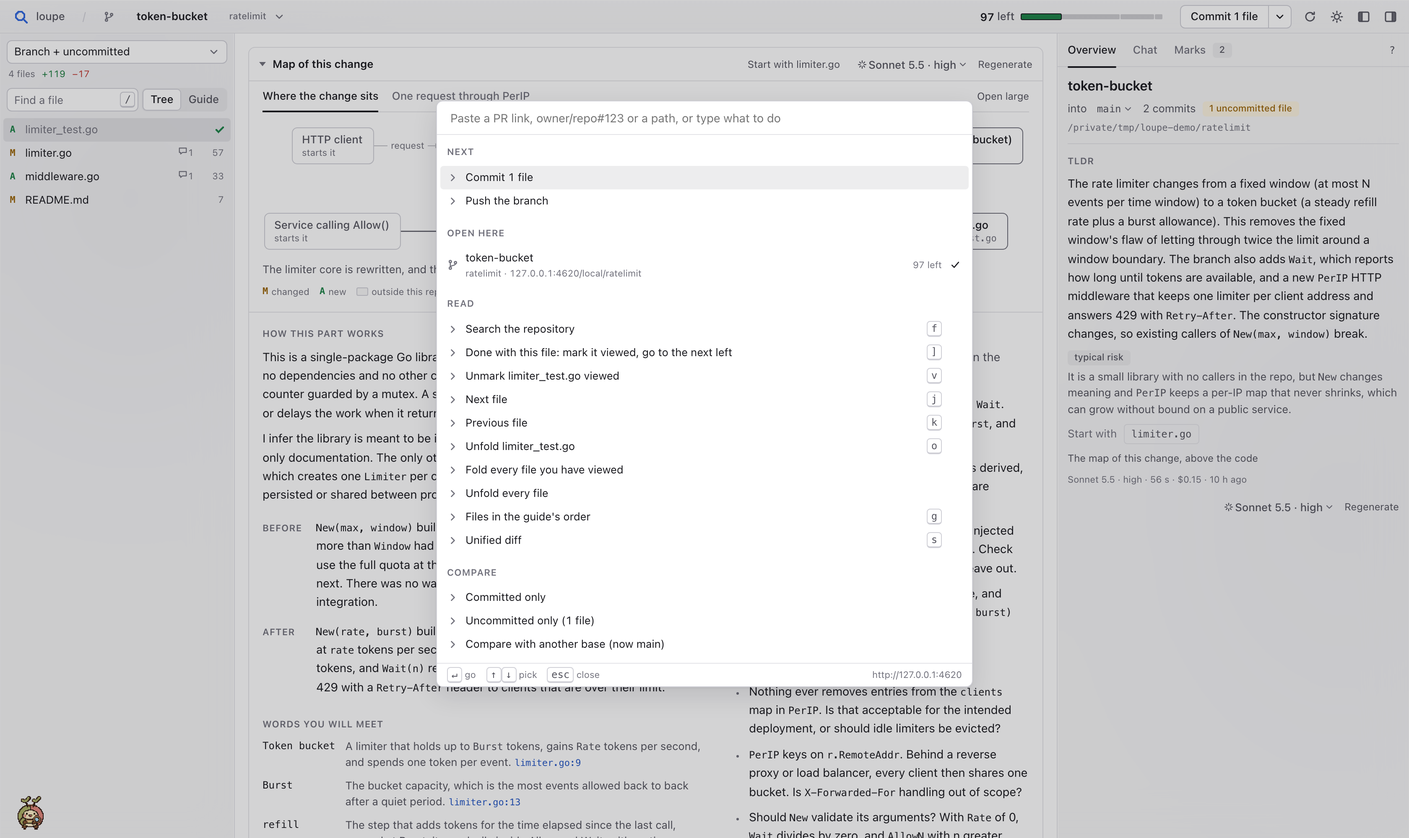
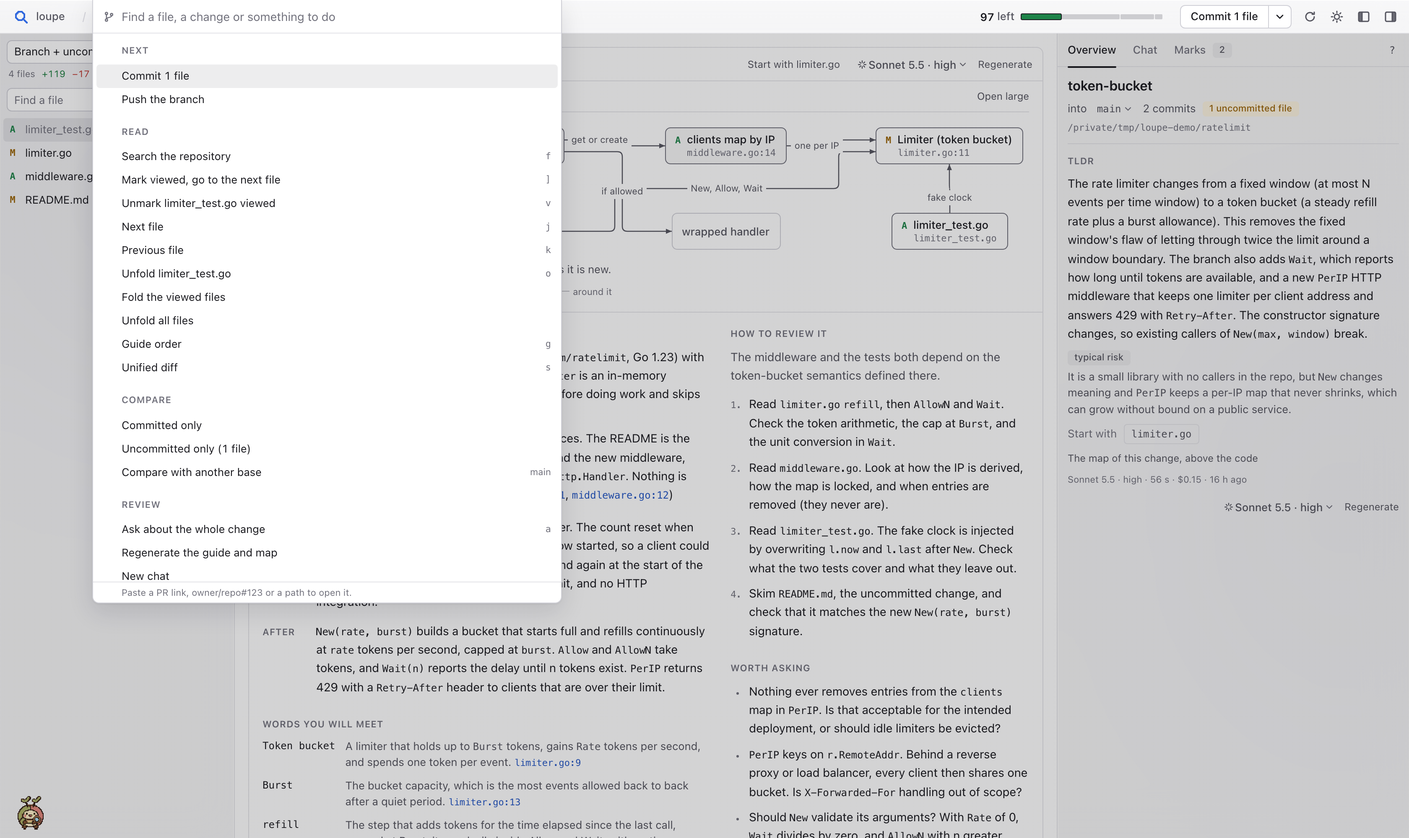
A palette that opens from the title, and restarts only when the code changed
- ⌘K, or a click on the title, opens the palette the way an address bar opens: its field on
  the top bar's own row, where the title was, and its rows on the file list's grid, with
  the same status letters, counts and viewed checks.
- Keys in menus and the palette are quiet figures at the end of the row, not keycaps.
  Fewer groups, shorter labels, the change you are on left out, and a few recent changes
  standing for the rest until you type.
- The daemon restarts itself only when a source file's contents change. Copying the same
  files over it (an update that changed nothing) used to restart it and cut off a brief or
  an answer being written.
- A brief is saved as soon as it starts, so a check for work in progress sees it.

diff --git a/web/js/main.js b/web/js/main.js
@@ -1,7 +1,7 @@
 // The page: which change this URL is, the frame around it (top bar; bin | diff | inspector), live
 // updates from the daemon, keys, the palette and home. One URL per change; "/" goes back to the last one.
 import { S, $, $$, esc, h, api, wsApi, I, pref, toast, fileOf, plural, ago, briefRun } from './core.js';
-import { renderCards, renderBody, renderAllBodies, loadFile, toggleFold, setViewed, isViewed, cardEl, openDraft, attachSelection, cancelDraft, updateCard, orderedFiles, lines, updateMark, setMarksHidden, canComment } from './cards.js';
+import { renderCards, renderBody, renderAllBodies, loadFile, toggleFold, setViewed, isViewed, cardEl, openDraft, attachSelection, cancelDraft, updateCard, orderedFiles, lines, updateMark, setMarksHidden, canComment, statusGlyph } from './cards.js';
 import { renderTree, markCurrent, nextUnviewed } from './tree.js';
 import { renderPanel, setTab, renderTabs, openChat, paintMessage } from './panel.js';
 import { goLoc, goThread, openViewer, closeViewer, hideTip, goBack, clearReturns } from './nav.js';
@@ -508,7 +508,7 @@ function commands() {
   const pr = S.github?.pr, isPr = m.kind === 'pr', local = m.kind === 'local';
   const cur = S.current && fileOf(S.current), name = S.current?.split('/').pop();
   const panel = (tab) => () => { setPane('panel', true); setTab(tab); };
-  const setting = (k, on, label) => ({ group: 'SETTINGS', label: `${on ? 'Turn off' : 'Turn on'}: ${label}`, run: async () => { try { S.app.settings = await api('/api/settings', { method: 'POST', body: { [k]: !on } }); } catch (e) { return toast(e.message); } for (const f of S.files) updateCard(f.path); progress(); toast(`${label}: ${on ? 'off' : 'on'}.`); } });
+  const setting = (k, on, label) => ({ group: 'VIEW', label, on, run: async () => { try { S.app.settings = await api('/api/settings', { method: 'POST', body: { [k]: !on } }); } catch (e) { return toast(e.message); } for (const f of S.files) updateCard(f.path); progress(); toast(`${label}: ${on ? 'off' : 'on'}.`); } });
   const scopes = [
     ['all', isPr ? 'Whole pull request' : m.dirty ? 'Branch + uncommitted' : 'Whole branch'],
     ...(local ? [['branch', 'Committed only'], ...(m.dirty ? [['wip', `Uncommitted only (${plural(m.dirty, 'file')})`]] : [])] : []),
@@ -519,25 +519,25 @@ function commands() {
   const c = [
     ...next,
     { group: 'READ', label: 'Search the repository', key: 'f', run: openRepositorySearch },
-    { group: 'READ', label: 'Done with this file: mark it viewed, go to the next left', key: ']', run: () => nextLeft() },
+    { group: 'READ', label: 'Mark viewed, go to the next file', key: ']', run: () => nextLeft() },
     cur && { group: 'READ', label: `${isViewed(cur) ? 'Unmark' : 'Mark'} ${name} viewed`, key: 'v', run: () => setViewed(S.current, !isViewed(cur)) },
     { group: 'READ', label: 'Next file', key: 'j', run: () => stepFile(1) },
     { group: 'READ', label: 'Previous file', key: 'k', run: () => stepFile(-1) },
     cur && { group: 'READ', label: `${S.shut.has(S.current) ? 'Unfold' : 'Fold'} ${name}`, key: 'o', run: () => toggleFold(S.current) },
-    { group: 'READ', label: 'Fold every file you have viewed', run: () => { for (const f of S.files) if (isViewed(f) || f.kind === 'generated') toggleFold(f.path, true); } },
-    { group: 'READ', label: 'Unfold every file', run: () => { for (const f of S.files) if (S.shut.has(f.path)) toggleFold(f.path, false); } },
-    S.review.brief?.sections?.length && { group: 'READ', label: S.order === 'guide' ? 'Files in tree order' : "Files in the guide's order", key: 'g', run: () => setOrder(S.order === 'guide' ? 'tree' : 'guide') },
+    { group: 'READ', label: 'Fold the viewed files', run: () => { for (const f of S.files) if (isViewed(f) || f.kind === 'generated') toggleFold(f.path, true); } },
+    { group: 'READ', label: 'Unfold all files', run: () => { for (const f of S.files) if (S.shut.has(f.path)) toggleFold(f.path, false); } },
+    S.review.brief?.sections?.length && { group: 'READ', label: S.order === 'guide' ? 'Tree order' : 'Guide order', key: 'g', run: () => setOrder(S.order === 'guide' ? 'tree' : 'guide') },
     { group: 'READ', label: S.layout === 'split' ? 'Unified diff' : 'Split diff', key: 's', run: () => setLayout(S.layout === 'split' ? 'unified' : 'split') },
     ...scopes.map(([k, label]) => ({ group: 'COMPARE', label, run: () => setScope(k) })),
-    local && { group: 'COMPARE', label: `Compare with another base (now ${m.base})`, run: () => { const b = $('[data-act="scopemenu"]'); if (b) baseMenu(b); } },
+    local && { group: 'COMPARE', label: 'Compare with another base', sub: m.base, run: () => { const b = $('[data-act="scopemenu"]'); if (b) baseMenu(b); } },
     ...m.commits.filter((x) => x.sha !== S.rangeKey).map((x) => ({ group: 'COMPARE', label: `Commit ${x.short.slice(0, 7)} ${x.subject}`, sub: ago(x.at), typed: true, run: () => setScope(x.sha) })),
     { group: 'REVIEW', label: 'Ask about the whole change', key: 'a', run: () => { setPane('panel', true); openChat(); } },
     { group: 'REVIEW', label: S.review.brief?.tldr ? 'Regenerate the guide and map' : 'Write the guide and map', run: () => { setPane('panel', true); setTab('overview'); hooks.rebrief?.(); } },
     { group: 'REVIEW', label: 'New chat', run: () => hooks.newChat?.() },
-    { group: 'CLAUDE', label: 'Link a Claude Code session…', run: () => hooks.linkSession?.() },
-    { group: 'INSPECTOR', label: 'Overview', key: '1', run: panel('overview') },
-    { group: 'INSPECTOR', label: 'Chat', key: '2', run: panel('chat') },
-    { group: 'INSPECTOR', label: 'Marks', key: '3', run: panel('review') },
+    { group: 'REVIEW', label: 'Link a Claude Code session…', run: () => hooks.linkSession?.() },
+    { group: 'VIEW', label: 'Overview tab', key: '1', run: panel('overview') },
+    { group: 'VIEW', label: 'Chat tab', key: '2', run: panel('chat') },
+    { group: 'VIEW', label: 'Marks tab', key: '3', run: panel('review') },
     isPr && pr && !pr.viewerIsAuthor && { group: 'REVIEW', label: 'Submit your review…', run: () => hooks.openSheet?.('review') },
     isPr && pr && { group: 'REVIEW', label: `Comment on #${pr.number}`, run: () => hooks.focusComment?.() },
     (pr?.checks?.length || S.github?.checks?.length) && { group: 'REVIEW', label: 'Show the checks', run: () => hooks.showChecks?.() },
@@ -554,29 +554,64 @@ function commands() {
     setting('autoView', !!S.app.settings?.autoView, 'Count tests and generated files as viewed'),
     setting('autoBrief', !!S.app.settings?.autoBrief, 'Write the brief when a PR opens'),
     ghUrl && { group: 'GO', label: 'Open on GitHub', run: () => open(ghUrl, '_blank', 'noopener') },
-    { group: 'GO', label: 'Copy the link to this page', run: () => navigator.clipboard.writeText(location.href).then(() => toast('Link copied.'), () => toast('Could not copy.')) },
+    { group: 'GO', label: "Copy this page's link", run: () => navigator.clipboard.writeText(location.href).then(() => toast('Link copied.'), () => toast('Could not copy.')) },
     { group: 'GO', label: 'Read the change again', key: 'r', run: () => $('[data-act="refresh"]')?.click() },
     { group: 'GO', label: 'Home', run: () => { location.href = '/home'; } },
     { group: 'GO', label: 'Keys', key: '?', run: keySheet },
     { group: 'GO', label: 'Close this change here', sub: 'forgets its marks and chats', typed: true, run: async () => { if (!confirm('Close this change in loupe? Its marks and chats are forgotten; the code is untouched.')) return; try { await api(`/api/w/${S.id}`, { method: 'DELETE' }); location.href = '/home'; } catch (e) { toast(e.message); } } },
-    ...S.files.map((f) => ({ group: 'FILES', label: f.path, sub: isViewed(f) ? 'viewed' : `${(f.added + f.deleted).toLocaleString()} lines`, typed: true, file: true, run: () => goLoc({ path: f.path, line: 0 }) })),
+    ...S.files.map((f) => ({ group: 'FILES', label: f.path, f, typed: true, file: true, run: () => goLoc({ path: f.path, line: 0 }) })),
   ];
   return c.filter(Boolean);
 }
 
 // The palette draws this many rows and says how many more there are, so a change of 300 files stays instant.
 const PAL_ROWS = 60;
+// With nothing typed the groups come in the order of the work: what is next, the other changes open here, then reading,
+// comparing, reviewing, shipping, the view, and leaving.
+const PAL_CHANGES = 6;
+const PAL_GROUPS = ['NEXT', 'CHANGES', 'READ', 'COMPARE', 'REVIEW', 'SHIP', 'STACK', 'VIEW', 'GO', 'FILES'];
 let palClose = null, keysClose = null;
+// Every row is the file list's row: a 14 px glyph column, the label, and a trailing column of quiet figures (a key, a
+// count, the viewed check). Commands leave the glyph column empty so every label starts on one edge.
+const palGlyph = (x = '') => `<span class="g">${x}</span>`;
+const palTrail = (x = '') => `<span class="tr">${x}</span>`;
+const fileLeft = (f) => (isViewed(f) ? icon('check', '--ok') : f.kind === 'generated' ? 'gen' : lines(f).toLocaleString());
+
+// The palette is the title opened, the way a browser's address bar opens: flush to the top of the window, its field on
+// the top bar's own row with the typed text where the title's text was, and the rows' glyphs in a column under the
+// title's icon. The field, the rows and the heads share one inset in the style sheet, so placing the box is one number,
+// measured rather than assumed. Home has no title, and a narrow window has no room beside it: there it stands centred.
+function palOpen(label, glyph, placeholder, foot) {
+  const scrim = h(`<div class="scrim" role="dialog" aria-label="${esc(label)}"><div class="palette"><div class="pfield">${glyph}<input placeholder="${esc(placeholder)}" aria-label="${esc(label)}" autocomplete="off" spellcheck="false"></div><div class="list"></div>${foot ? `<div class="foot">${foot}</div>` : ''}</div></div>`);
+  document.body.append(scrim);
+  const box = $('.palette', scrim);
+  const place = () => {
+    const ic = $('#wsbtn svg'), bar = $('.top');
+    const on = !!(ic && bar && ic.getBoundingClientRect().width && innerWidth >= 760);
+    scrim.classList.toggle('anchored', on);
+    box.style.left = box.style.width = '';
+    if (!on) return;
+    const w = Math.min(560, innerWidth - 16);
+    scrim.style.setProperty('--bar-h', `${Math.round(bar.getBoundingClientRect().height)}px`);
+    box.style.width = `${w}px`;
+    box.style.left = '0px';
+    const inset = $('.pfield > svg', scrim).getBoundingClientRect().left - box.getBoundingClientRect().left;
+    box.style.left = `${Math.max(8, Math.min(Math.round(ic.getBoundingClientRect().left - inset), innerWidth - 8 - w))}px`;
+  };
+  place();
+  addEventListener('resize', place);
+  return { scrim, input: $('input', scrim), list: $('.list', scrim), done: () => { removeEventListener('resize', place); scrim.remove(); } };
+}
+
 function openRepositorySearch(snapshot = {}) {
   palClose?.();
   keysClose?.();
   closeMenu();
-  const scrim = h(`<div class="scrim" role="dialog" aria-label="Search the repository"><div class="palette"><input placeholder="Search the repository" aria-label="Search the repository" maxlength="160" autocomplete="off"><div class="list"></div><div class="foot"><span><kbd>↵</kbd> open</span><span><kbd>↑</kbd><kbd>↓</kbd> pick</span><span><kbd>esc</kbd> close</span><span class="sp"></span><span class="revision"></span></div></div></div>`);
-  document.body.append(scrim);
-  const input = $('input', scrim), list = $('.list', scrim);
+  const { scrim, input, list, done } = palOpen('Search the repository', I.search, 'Search the repository', '<span class="revision"></span>');
+  input.maxLength = 160;
   const scope = S.scope;
   let selected = snapshot.selected ?? 0, result, timer, request;
-  const close = () => { clearTimeout(timer); request?.abort(); scrim.remove(); palClose = null; };
+  const close = () => { clearTimeout(timer); request?.abort(); done(); palClose = null; };
   palClose = close;
   const pick = () => {
     list.querySelector('[aria-selected="true"]')?.setAttribute('aria-selected', 'false');
@@ -588,10 +623,12 @@ function openRepositorySearch(snapshot = {}) {
     result = r;
     const rev = $('.revision', scrim);
     rev.title = r.revision;
-    rev.textContent = r.revision === 'Working tree' ? r.revision : r.revision.slice(0, 12);
-    list.innerHTML = r.matches.map((m, i) => `<button class="mi repo-hit" data-i="${i}" aria-selected="false">${I.file}<span class="mono where" title="${esc(m.path)}:${m.line}">${esc(m.path)}:${m.line}</span><span class="mono excerpt" title="${esc(m.excerpt)}">${esc(m.excerpt)}</span></button>`).join('')
-      + (r.more ? '<div class="more">First 60 matches. Keep typing to narrow them.</div>' : '');
-    if (!r.matches.length) list.innerHTML = `<div class="none">${input.value.trim() ? 'No matches.' : 'Type text to find in source.'}</div>`;
+    rev.textContent = r.revision === 'Working tree' ? 'In the working tree' : `At ${r.revision.slice(0, 12)}`;
+    // a hit in a file this change touches carries the file list's letter, so the change's own lines stand out
+    const changed = new Map(S.files.map((f) => [f.path, f]));
+    list.innerHTML = r.matches.map((m, i) => `<button class="mi repo-hit" data-i="${i}" aria-selected="false">${palGlyph(changed.has(m.path) ? statusGlyph(changed.get(m.path)) : '')}<span class="mono where" title="${esc(m.path)}:${m.line}">${esc(m.path)}:${m.line}</span><span class="mono excerpt" title="${esc(m.excerpt)}">${esc(m.excerpt)}</span></button>`).join('')
+      + (r.more ? '<div class="more">The first 60 matches. Keep typing to narrow them.</div>' : '');
+    if (!r.matches.length) list.innerHTML = `<div class="none">${input.value.trim() ? 'No matches.' : 'Type text to find in the source.'}</div>`;
     if (r.matches.length) { selected = Math.min(selected, r.matches.length - 1); pick(); }
   };
   const search = () => {
@@ -638,9 +675,9 @@ function openPalette() {
   closeMenu();
   // Drawn at once from what the page already has; the daemon's own list replaces the workspace rows when it arrives.
   let st = S.app || { workspaces: [], display: location.origin };
-  const scrim = h(`<div class="scrim" role="dialog" aria-label="Open or do"><div class="palette"><input placeholder="Paste a PR link, owner/repo#123 or a path, or type what to do" aria-label="Open or do"><div class="list"></div><div class="foot"><span><kbd>↵</kbd> go</span><span><kbd>↑</kbd><kbd>↓</kbd> pick</span><span><kbd>esc</kbd> close</span><span class="sp"></span><span>${esc(st.display)}</span></div></div></div>`);
-  document.body.append(scrim);
-  const input = scrim.querySelector('input'), list = scrim.querySelector('.list');
+  // The field keeps the title's icon in the title's place: this is that change's title, opened.
+  const here = S.ws ? (S.ws.kind === 'pr' ? I.pr : I.branch) : I.search;
+  const { scrim, input, list, done } = palOpen('Open or do', here, 'Find a file, a change or something to do', 'Paste a PR link, owner/repo#123 or a path to open it.');
   let cur = 0, shown = [];
   // Lower-cased once per open, not per keystroke; a file also keeps its own name apart from its folders.
   const cmds = commands().map((c) => { const lab = c.label.toLowerCase(); return { ...c, lab, hay: `${lab} ${c.group.toLowerCase()}`, base: c.file ? lab.slice(lab.lastIndexOf('/') + 1) : '' }; });
@@ -652,16 +689,18 @@ function openPalette() {
     if (c.lab.endsWith('/' + q)) return 95; // the end of its path
     return c.base.startsWith(q) ? 80 : c.base.includes(q) ? 70 : 50;
   };
+  const openRow = (t, i) => `<button class="mi" data-i="${i}" aria-selected="${i === cur}">${palGlyph(I.plus)}<span class="ml" title="${esc(t)}">Open “${esc(t)}”</span>${palTrail()}</button>`;
   const draw = () => {
     const q = input.value.trim().toLowerCase();
-    const ws = st.workspaces.filter((w) => !q || `${w.title} ${w.repo} ${w.slug} ${w.number || ''}`.toLowerCase().includes(q)).map((w) => ({ ws: w, group: 'OPEN HERE', s: q && [w.title, w.repo, w.slug].some((t) => String(t || '').toLowerCase().startsWith(q)) ? 75 : 45 }));
+    // the change you are on is the title itself, so it is not offered as somewhere to go
+    const ws = st.workspaces.filter((w) => w.id !== S.id && (!q || `${w.title} ${w.repo} ${w.slug} ${w.number || ''}`.toLowerCase().includes(q))).map((w) => ({ ws: w, group: 'CHANGES', s: q && [w.title, w.repo, w.slug].some((t) => String(t || '').toLowerCase().startsWith(q)) ? 75 : 45 }));
     const words = q.split(/\s+/).filter(Boolean);
     const cs = cmds.filter((c) => (q ? words.every((w) => c.hay.includes(w)) : !c.typed)).map((c) => ({ cmd: c, group: c.group, s: q ? score(c, q) : 0 }));
     // Typed: each group stays whole under its own heading, the group holding the best match first, and the best match first
-    // within it. Nothing typed: the next act first, then what is open here, then the rest. At most PAL_ROWS rows are
-    // drawn (the arrow keys walk only those); a group that matches hundreds of files leaves a few rows to each group after
-    // it, so the commands that match are never the rows that get cut.
-    let total, rows;
+    // within it. Nothing typed: the groups in the order of the work. At most PAL_ROWS rows are drawn (the arrow keys walk
+    // only those); a group that matches hundreds of files leaves a few rows to each group after it, so the commands that
+    // match are never the rows that get cut.
+    let total, rows, moreChanges = 0;
     if (q) {
       const groups = new Map();
       for (const x of [...cs, ...ws]) { let g = groups.get(x.group); if (!g) groups.set(x.group, (g = { rows: [], best: 0, at: groups.size })); g.rows.push(x); g.best = Math.max(g.best, x.s); }
@@ -674,35 +713,43 @@ function openPalette() {
         room -= take;
         return g.rows.sort((a, b) => b.s - a.s).slice(0, take);
       });
-    } else { rows = [...cs.filter((x) => x.group === 'NEXT'), ...ws, ...cs.filter((x) => x.group !== 'NEXT')]; total = rows.length; }
+    } else {
+      const rank = (x) => { const i = PAL_GROUPS.indexOf(x.group); return i < 0 ? PAL_GROUPS.length : i; };
+      // with nothing typed, the most recent few changes stand for the rest, so the commands are still in the first view
+      // (on home the changes are all there is, so they are all shown)
+      const few = S.ws ? ws.slice(0, PAL_CHANGES) : ws;
+      moreChanges = ws.length - few.length;
+      rows = [...cs, ...few].map((x, i) => [x, i]).sort((a, b) => rank(a[0]) - rank(b[0]) || a[1] - b[1]).map(([x]) => x);
+      total = rows.length;
+    }
     shown = rows.slice(0, PAL_ROWS);
     const more = total - shown.length;
     if (q && /\/|#\d|^\d+$|^~/.test(input.value.trim())) { if (cs.length) shown.push({ target: input.value.trim() }); else shown.unshift({ target: input.value.trim() }); }
     cur = Math.min(cur, Math.max(0, shown.length - 1));
     let last = null;
-    // when the open change is listed, every row ends in the same check column, so the keys and counts on the right keep one edge
-    const anyCur = shown.some((x) => x.ws?.id === S.id);
-    const mc = (on) => (anyCur ? `<span class="mc">${on ? I.check : ''}</span>` : '');
     list.innerHTML = shown.map((x, i) => {
-      const head = x.group && x.group !== last ? `<div class="sh">${x.group}</div>` : '';
+      const rest = last === 'CHANGES' && x.group !== 'CHANGES' && moreChanges ? `<div class="gmore">and ${moreChanges.toLocaleString()} more: type to find them</div>` : '';
+      const head = rest + (x.group && x.group !== last ? `<div class="sh">${x.group}</div>` : '');
       last = x.group || last;
-      if (x.target) return `<button class="mi" data-i="${i}" aria-selected="${i === cur}">${I.plus}<span class="two"><span>Open “${esc(x.target)}”</span><span>a PR link, owner/repo#123, #123 or a path</span></span>${mc(false)}</button>`;
-      if (x.cmd?.file) { const k = x.cmd.label.lastIndexOf('/'); return head + `<button class="mi" data-i="${i}" aria-selected="${i === cur}">${I.file}<span class="fp ml" title="${esc(x.cmd.label)}"><span class="d">${esc(x.cmd.label.slice(0, k + 1))}</span>${esc(x.cmd.label.slice(k + 1))}</span><span class="sub">${esc(x.cmd.sub)}</span>${mc(false)}</button>`; }
-      if (x.cmd) return head + `<button class="mi" data-i="${i}" aria-selected="${i === cur}">${I.chevR}<span class="ml" title="${esc(x.cmd.label)}">${esc(x.cmd.label)}</span>${x.cmd.key ? `<span class="sub"><kbd>${esc(x.cmd.key)}</kbd></span>` : x.cmd.sub ? `<span class="sub">${esc(x.cmd.sub)}</span>` : ''}${mc(false)}</button>`;
-      const w = x.ws;
-      return head + `<button class="mi" data-i="${i}" aria-selected="${i === cur}"${w.id === S.id ? ' aria-current="true"' : ''}>${w.kind === 'pr' ? I.pr : I.branch}<span class="two"><span>${w.kind === 'pr' ? `#${w.number} ` : ''}${esc(w.title)}</span><span>${esc(w.repo)} · ${esc(st.display.replace(/^https?:\/\//, ''))}${esc(w.url)}</span></span><span class="sub">${w.left ? (w.left.lines ? `${w.left.lines.toLocaleString()} left` : 'all viewed') : ''}</span>${mc(w.id === S.id)}</button>`;
-    }).join('') || `<button class="mi" data-i="-1" aria-selected="true">${I.plus}<span class="two"><span>Open “${esc(input.value.trim())}”</span><span>a PR link, owner/repo#123, #123 or a path</span></span>${mc(false)}</button>`;
+      if (x.target) return openRow(x.target, i);
+      const c = x.cmd, sel = `data-i="${i}" aria-selected="${i === cur}"`;
+      if (c?.file) { const k = c.label.lastIndexOf('/'); return head + `<button class="mi" ${sel}>${palGlyph(statusGlyph(c.f))}<span class="fp ml" title="${esc(c.label)}"><span class="d">${esc(c.label.slice(0, k + 1))}</span><span class="n">${esc(c.label.slice(k + 1))}</span></span>${palTrail(fileLeft(c.f))}</button>`; }
+      if (c) return head + `<button class="mi" ${sel}>${palGlyph()}<span class="ml" title="${esc(c.label)}">${esc(c.label)}</span>${palTrail(c.key ? `<kbd>${esc(c.key)}</kbd>` : c.on ? I.check : c.sub ? esc(c.sub) : '')}</button>`;
+      const w = x.ws, left = w.left ? (w.left.lines ? w.left.lines.toLocaleString() : icon('check', '--ok')) : '';
+      const repo = w.repo && w.repo !== w.title ? `<span class="rp">${esc(w.repo)}</span>` : '';
+      return head + `<button class="mi" ${sel}>${palGlyph(w.kind === 'pr' ? I.pr : I.branch)}<span class="ml" title="${esc(w.title)}${w.repo ? ` · ${esc(w.repo)}` : ''}">${w.kind === 'pr' ? `#${w.number} ` : ''}${esc(w.title)}${repo}</span>${palTrail(left)}</button>`;
+    }).join('') || `<div class="none">${q ? `Nothing matches “${esc(input.value.trim())}”.` : 'Nothing to show.'}</div>`;
     if (more > 0) list.insertAdjacentHTML('beforeend', `<div class="more">and ${more.toLocaleString()} more: keep typing to narrow them</div>`);
     list.querySelector('[aria-selected="true"]')?.scrollIntoView({ block: 'nearest' });
   };
-  const close = () => { scrim.remove(); palClose = null; };
+  const close = () => { done(); palClose = null; };
   palClose = close;
   api('/api/state').then((fresh) => { if (palClose === close) { st = fresh; draw(); } }, () => { /* the page's own list stands */ });
   const go = async (i) => {
     const x = shown[i];
     if (x?.ws) { close(); location.href = x.ws.url; return; }
     if (x?.cmd) { close(); return x.cmd.run(); }
-    const target = (x?.target || input.value).trim(); if (!target) return;
+    const target = x?.target; if (!target) return;
     input.disabled = true;
     try { const r = await api('/api/workspaces', { method: 'POST', body: { target, cwd: S.ws?.root || undefined } }); close(); location.href = r.url; }
     catch (e) { input.disabled = false; list.insertAdjacentHTML('afterbegin', `<div class="err">${esc(e.message)}</div>`); }
@@ -711,7 +758,7 @@ function openPalette() {
   input.addEventListener('keydown', (e) => {
     if (e.key === 'ArrowDown') { e.preventDefault(); cur = Math.min(shown.length - 1, cur + 1); draw(); }
     else if (e.key === 'ArrowUp') { e.preventDefault(); cur = Math.max(0, cur - 1); draw(); }
-    else if (e.key === 'Enter') { e.preventDefault(); go(shown.length ? cur : -1); }
+    else if (e.key === 'Enter') { e.preventDefault(); if (shown.length) go(cur); }
     else if (e.key === 'Escape') close();
   });
   list.addEventListener('click', (e) => { const b = e.target.closest('.mi'); if (b) go(Number(b.dataset.i)); });

diff --git a/web/style.css b/web/style.css
@@ -527,12 +527,34 @@ details.sect[open] > summary.sh::after { transform: rotate(180deg); }
 .tip .md { font-size: var(--t-ui); }
 .tip .foot { margin-top: var(--s3); padding-top: var(--s2); border-top: 1px solid var(--rule); font-size: var(--t-meta); color: var(--ink-3); }
 .scrim { position: fixed; inset: 0; z-index: 85; background: var(--scrim-soft); display: grid; place-items: start center; padding-top: 12vh; }
-.palette { width: min(640px, 92vw); background: var(--raise); border: 1px solid var(--rule-strong); border-radius: var(--r3); box-shadow: var(--shadow); overflow: hidden; display: grid; grid-template-rows: auto minmax(0, 1fr) auto; max-height: 70vh; }
-.palette input { all: unset; box-sizing: border-box; height: var(--h4); padding: 0 var(--s5); font-size: var(--t-read); border-bottom: 1px solid var(--rule); }
+/* The palette's field, rows and heads keep the file list's columns: a 14 px glyph column 12 in from the box's edge, the
+   text edge 34 in. The field is a row of the same kind, so what you type starts where every label starts. */
+.palette { --pal-g: calc(var(--s2) + var(--s3)); --pal-t: calc(var(--pal-g) + 14px + var(--s3)); width: min(640px, 92vw); background: var(--raise); border: 1px solid var(--rule-strong); border-radius: var(--r3); box-shadow: var(--shadow); overflow: hidden; display: grid; grid-template-rows: auto minmax(0, 1fr) auto; max-height: 70vh; }
+.palette .pfield { display: flex; align-items: center; gap: var(--s3); height: var(--h4); padding: 0 var(--s5) 0 var(--pal-g); border-bottom: 1px solid var(--rule); }
+.palette .pfield > svg { width: 14px; height: 14px; flex: none; color: var(--ink-3); }
+.palette .pfield input { all: unset; box-sizing: border-box; flex: 1; min-width: 0; height: 100%; font-size: var(--t-read); color: var(--ink); }
+.palette .pfield input::placeholder { color: var(--ink-3); }
 .palette .list { overflow: auto; padding: var(--s2); }
-.palette .foot { display: flex; gap: var(--s4); padding: var(--s2) var(--s4); border-top: 1px solid var(--rule); font-size: var(--t-meta); color: var(--ink-3); align-items: center; }
-.palette .err { padding: var(--s3) var(--s4); }
-.palette .more { position: sticky; bottom: calc(-1 * var(--s2)); padding: var(--s3) var(--s3) var(--s3); font-size: var(--t-meta); color: var(--ink-3); background: var(--raise); border-top: 1px solid var(--rule); }
+.palette .list :is(.sh, .more, .none, .err, .gmore) { padding-left: calc(var(--pal-t) - var(--s2)); }
+.palette .gmore { padding-block: var(--s1) var(--s2); font-size: var(--t-meta); line-height: 16px; color: var(--ink-3); }
+.palette .foot { padding: var(--s2) var(--s5) var(--s2) var(--pal-t); border-top: 1px solid var(--rule); font-size: var(--t-meta); line-height: 16px; color: var(--ink-3); }
+.palette .err { padding-block: var(--s3); color: var(--danger); font-size: var(--t-ui); }
+.palette .none { padding-block: var(--s3); color: var(--ink-3); font-size: var(--t-ui); }
+.palette .more { position: sticky; bottom: calc(-1 * var(--s2)); padding-block: var(--s3); font-size: var(--t-meta); color: var(--ink-3); background: var(--raise); border-top: 1px solid var(--rule); }
+.palette .mi .g { display: inline-grid; place-items: center; width: 14px; height: 14px; flex: none; color: var(--ink-3); }
+.palette .mi .tr { margin-left: auto; padding-left: var(--s4); display: inline-flex; align-items: center; justify-content: flex-end; flex: none; color: var(--ink-3); font-size: var(--t-meta); font-variant-numeric: tabular-nums; white-space: nowrap; }
+.palette .mi .tr:empty { display: none; }
+.palette .mi .tr svg { width: 12px; height: 12px; color: var(--ink); }
+.palette .mi .rp { margin-left: var(--s3); color: var(--ink-3); }
+/* a long path gives up its folders, never the file's own name */
+.palette .mi .fp { display: flex; }
+.palette .mi .fp .d { min-width: 0; overflow: hidden; text-overflow: ellipsis; white-space: nowrap; }
+.palette .mi .fp .n { flex: none; max-width: 100%; overflow: hidden; text-overflow: ellipsis; white-space: nowrap; }
+/* Opened from the title, the box hangs from the top of the window and its field is the top bar's own row, so the
+   field's rule carries on the bar's. The bar stays lit; a click on it still closes the palette. */
+.scrim.anchored { display: block; padding: 0; background: linear-gradient(to bottom, transparent var(--bar-h), var(--scrim-soft) var(--bar-h)); }
+.scrim.anchored .palette { position: absolute; top: 0; border-top: 0; border-radius: 0 0 var(--r3) var(--r3); max-height: 72vh; }
+.scrim.anchored .pfield { height: var(--bar-h); }
 .keys { max-height: 70vh; overflow: auto; display: grid; grid-template-columns: auto 1fr; gap: var(--s2) var(--s4); padding: var(--s5); font-size: var(--t-ui); align-items: center; }
 .keys .sh { grid-column: 1 / -1; margin: var(--s5) 0 0; }
 .keys .sh:first-child { margin-top: 0; }
@@ -540,6 +562,7 @@ details.sect[open] > summary.sh::after { transform: rotate(180deg); }
 .keys .k .mouse { margin-left: var(--s2); color: var(--ink-2); }
 .keys .k .mouse:first-child { margin-left: 0; }
 .palette.keysheet { grid-template-rows: minmax(0, 1fr) auto; }
+.palette.keysheet .foot { display: flex; gap: var(--s4); align-items: center; padding: var(--s2) var(--s4); line-height: normal; }
 .stamp { position: fixed; z-index: 95; top: 32vh; left: 50%; transform: translateX(-50%) rotate(-8deg) scale(1.6); opacity: 0; pointer-events: none; display: grid; justify-items: center; gap: var(--s1); padding: var(--s3) var(--s6); border: 4px double var(--ink); border-radius: var(--r2); color: var(--ink); font: 800 34px/1 var(--f-ui); letter-spacing: 0.14em; animation: stamp 260ms cubic-bezier(0.3, 1.4, 0.5, 1) forwards; mix-blend-mode: multiply; }
 .stamp small { font: 600 var(--t-meta) var(--f-mono); letter-spacing: 0.08em; }
 /* multiply reads as ink on paper; on the dark paper the same ink is lit instead */
@@ -920,7 +943,10 @@ canvas.spark.landed { animation: landed 360ms steps(3) 1; }
 .menu .mi .mi-ic { width: 14px; height: 14px; flex: none; }
 .menu .mi .mk { margin-left: auto; min-width: 18px; flex: none; }
 .menu .mi .sub ~ .mk { margin-left: var(--s3); }
-.menu .mi kbd.mk { color: var(--ink-3); }
+/* a key in a row is a quiet figure in the trailing column, like a count, not a keycap */
+:is(.menu, .palette) .mi kbd { border: 0; background: none; padding: 0; min-width: 0; text-align: right; font: 500 var(--t-meta)/16px var(--f-mono); color: var(--ink-3); }
+.menu .mi kbd.mk { min-width: 18px; }
+.menu .sh kbd { border: 0; background: none; padding: 0; min-width: 0; font: 500 var(--t-meta)/16px var(--f-mono); color: var(--ink-3); }
 :is(.menu, .palette) .mi .mc { display: grid; place-items: center; width: 16px; height: 16px; flex: none; color: var(--ink); }
 .palette .mi .mc { margin-left: auto; }
 .palette .mi .sub + .mc { margin-left: 0; }

diff --git a/web/js/core.js b/web/js/core.js
@@ -105,6 +105,7 @@ export const I = {
   updown: P('<path d="m5 6 3-3 3 3M5 10l3 3 3-3"/>'),
   check: P('<path d="m3.5 8.5 3 3 6-7"/>'),
   plus: P('<path d="M8 3v10M3 8h10"/>'),
+  search: P('<circle cx="7" cy="7" r="4.25"/><path d="m10.25 10.25 3.5 3.5"/>'),
   x: P('<path d="m4 4 8 8M12 4l-8 8"/>'),
   dir: P('<path d="M2 4.5A1.5 1.5 0 0 1 3.5 3h2.6l1.4 1.5h5A1.5 1.5 0 0 1 14 6v5.5a1.5 1.5 0 0 1-1.5 1.5h-9A1.5 1.5 0 0 1 2 11.5z"/>'),
   file: P('<path d="M4 1.75h5l3 3v9.5H4z"/><path d="M9 1.75v3h3"/>'),

diff --git a/docs/COMPONENTS.md b/docs/COMPONENTS.md
@@ -54,6 +54,14 @@ else gets a new entry here first. Values are tokens from the top of `web/style.c
 - **Row** (file tree, menus, palette, Marks list, stack, home): one hover (`--hover`), one current (`--press`), one
   keyboard focus (2 px blue inset ring), `--r1` corners inside lists with padding, square in full-bleed lists.
   Leading glyph column, label, trailing meta column right-aligned with tabular figures.
+  A key in a row is a plain 11 px mono figure in that trailing column, like a count, never a keycap.
+- **Palette** (⌘K, and `f` for the repository): the top bar's title opened, as an address bar opens. Flush to the top
+  of the window, square above and `--r3` below; its field is the top bar's own row, the title's icon kept in the
+  title's place and the typed text on the title's text edge; the bar stays lit and a click on it closes the palette.
+  560 wide, 72vh at most. Its rows are the file list's rows: 28 px, a 14 px glyph column (M / A / D for files, the PR
+  or branch icon for changes, empty for commands, so every label shares one edge) and a trailing column of keys,
+  counts and checks. Section headers sit on the rows' text edge. The change you are on is not listed (it is the
+  title). One quiet line at the foot says what else the field takes. Home and windows under 760 px get it centred.
 - **List box** (files in a dialog, commits, home lists): 1 px `--rule`, `--r3`, rows divided by 1 px `--rule`.
 - **Mark row in the code**: one line, glyph at the code's text edge, 13 px, hover `--hover`.
 - **Message** (chat and marks): who (13 px 600; Claude in orange), model meta 11 px `--ink-3`, body 14 px.

diff --git a/README.md b/README.md
@@ -23,8 +23,8 @@ A local review desk for pull requests, branches and uncommitted work, with Claud
   repository's style.
 - **From Claude Code.** The mod puts each repository a session edits on loupe's home; `/loupe` prints the links, each
   with a chat that knows what the session did. The skill lets Claude open things in loupe for you.
-- **Keyboard first.** `⌘K` finds any file, commit or action; `f` searches the whole repository at the reviewed
-  revision; `?` lists the keys.
+- **Keyboard first.** `⌘K`, or a click on the title, finds any file, open change, commit or action; `f` searches the
+  whole repository at the reviewed revision; `?` lists the keys.
 
 Mote, the small beetle floating in the corner (drag him anywhere), shows what the desk is doing: working while an
 answer or the map is being written, and jumping when you have read the last file.
